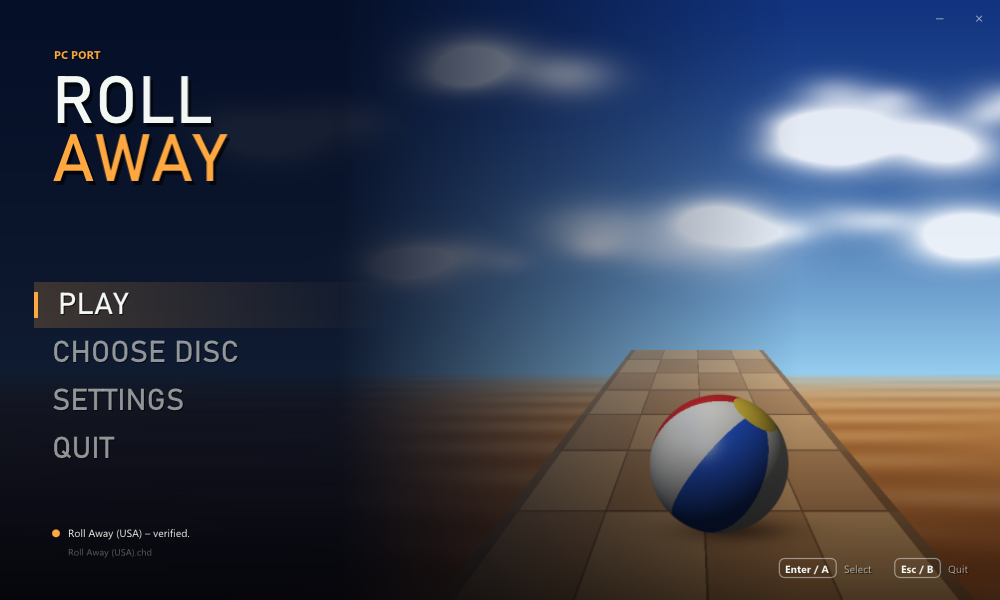
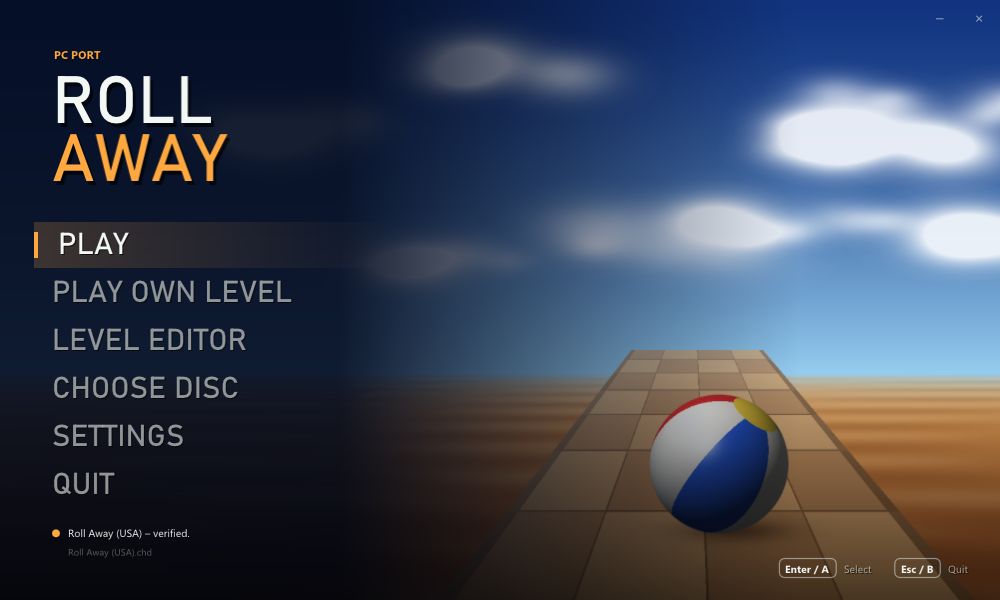
README: the level editor, with pictures
What the editor does, how to make a level, its keys, and how levels are
played and shared; a picture of the editor and of the same level in the
game, and the launcher's new menu.

Changed region(s): [[0.031, 0.36, 0.31, 0.84]]

diff --git a/README.md b/README.md
@@ -43,7 +43,7 @@ All releases are on the [Releases page](https://github.com/Bitsandbreakpoints/ro
    and movies: it holds no XA sectors). The launcher checks that the image
    is *Roll Away (USA)*, *Kula World (Europe)* or *KulaQuest (Japan)*, and
    which of them.
-4. Click **PLAY**.
+4. Click **PLAY**, or **LEVEL EDITOR** to make levels of your own.
 
 ![The launcher](images/launcher.png)
 
@@ -156,36 +156,91 @@ respective owners.*
 - **Disc images**: `.bin`/`.cue`, `.chd` (compressed) and `.iso`.
 - **Memory card in a file**: `roll_away_card1.mcd` next to the program, in
   the raw format emulators use. No BIOS needed.
+- **Your own levels**: a 3D [level editor](#level-editor), and the game
+  plays the levels you make (PLAY OWN LEVEL in the launcher).
 
 ## Level editor
 
-Make your own levels: `roll_away_editor.exe` (**LEVEL EDITOR** in the
-launcher) is a 3D level editor.
+**Make your own levels, and play them in the game.** The port comes with a
+3D level editor, `roll_away_editor.exe`: start it from the launcher
+(**LEVEL EDITOR**) or on its own. It reads your disc too, so the blocks
+look as they do in the game.
+
+![The level editor: a level of three floors in the Hiro world, the exit selected](images/level-editor.png)
+
+<p align="center"><em>The level editor: the tools and the palette of blocks and things on the left, the level and the selection on the right. The exit is selected; it leads to the next level of the series, readme_2.rlv.</em></p>
+
+![The same level played in the game](images/level-editor-play.png)
+
+<p align="center"><em>The same level in the game (F5 in the editor).</em></p>
+
+### What it does
 
 - **Blocks snap together**: click the side of a block and the new block
-  sits right there; drag to build a row, a floor or a wall.
+  sits right there. Drag to build a row, a floor or a wall in one go. For
+  blocks in the air, the build plane (G) gives you a floor to start from.
 - **Everything the game has**: normal, fire, ice, invisible and acid
-  blocks, moving, crumbling and flashing blocks, lasers, and on the blocks
-  the start, keys, the exit, coins, gems, fruit, power-ups, spikes,
-  patches, bounce pads, arrows, transporters, buttons and enemies.
-- **The game's rules** are checked while you build: one start, things
-  only on open sides, the exit opens when all keys are taken.
+  blocks, moving, crumbling and flashing blocks and lasers; and on the
+  blocks the start, keys, the exit and the hidden exit, coins, gems, fruit,
+  power-ups, spikes and patches, bounce pads, arrows, transporters, buttons
+  and enemies. Things that face a way show an arrow; transporters, buttons
+  and lasers are linked by clicking their target, and the links are drawn.
+- **The game's rules, checked as you build**: one start; things only on
+  the open sides of normal, fire, ice, invisible and acid blocks (a new
+  block takes away what was on a side it covers); the exit opens when all
+  keys are taken; no more special blocks and things to pick up than the
+  game can hold. **CHECK** on the right says what is missing or odd.
 - **Normal or bonus level**: a normal level keeps its world's look (with
-  no keys its exit is open at once); a bonus level gets the game's bonus
+  no keys, its exit is open at once); a bonus level gets the game's bonus
   look and the BONUS letters.
-- **The world's own look**: the editor reads the block textures from your
-  disc, and the level is played in the world you choose (its textures, sky
-  and music).
-- **A series of levels**: on an exit you choose the level that comes next
-  (the hidden exit can lead elsewhere), also in another world.
-- **Play at once**: **Play** (F5) starts the game straight into the level.
-  Saved levels (`.rlv`) are played with **PLAY OWN LEVEL** in the launcher
-  or by dropping them on its window.
-- **Learn from the masters**: File > Open a level of the game opens any of
-  the game's levels from your disc.
+- **Any world**: choose the world (Hiro, Hills, Inca, Arctic, Cowboy,
+  Field, Atlantis, Haze, Mars, Hell) and the level is played with its
+  textures, sky and music. The time is yours to set.
+- **A series of levels**: select an exit and choose the level that comes
+  next (**Next level**). The hidden exit can lead somewhere else, and the
+  next level can be in another world: finish one and the game moves on to
+  the next, as with its own levels.
+- **Play at once**: **Play** (F5) starts the game straight into the level,
+  past the intro and the menus. Esc in the game brings you back.
+- **Learn from the masters**: **File > Open a level of the game** opens any
+  of the game's own levels from your disc, to look at or to build on.
+- **Undo and redo** (Ctrl+Z, Ctrl+Y).
+
+### Making a level
+
+1. Start the editor. A new level is one block with the start on it.
+2. **Build** (1): click the sides of blocks to add blocks; pick the kind
+   on the left (fire, ice, moving, laser ...).
+3. **Things** (4): pick a thing on the left and click the side of a block
+   to put it there: keys, the exit, coins, the fruit, enemies ...
+4. **Select** (5): click a block or a thing to change it on the right: the
+   way it faces, its colour or kind, what a transporter leads to, where a
+   moving block goes, the next level of an exit.
+5. Set the name, the world, the type and the time under **LEVEL**, save
+   (Ctrl+S) and press **F5** to play.
+
+| Editor | Keys and mouse |
+|---|---|
+| Turn around the level | Right mouse button |
+| Move | Middle mouse button, Shift + right button, or W A S D / Q E |
+| Closer / farther | Mouse wheel |
+| Tools: Build, Erase, Paint, Things, Select | 1, 2, 3, 4, 5 |
+| Turn the selected thing / take it away | R / Delete |
+| Build plane on/off, its height | G, Page Up / Page Down |
+| Look at the selection | F |
+| Undo / redo / save / play | Ctrl+Z / Ctrl+Y / Ctrl+S / F5 |
+
+### Playing and sharing levels
+
+Levels are saved as small `.rlv` files. Play one with **PLAY OWN LEVEL**
+in the launcher, or drop it on the launcher's window. A series of levels
+is a folder of `.rlv` files: the exits refer to the next ones by name, so
+the folder can be moved or shared as it is. A `.rlv` holds only the level
+you made, nothing from the game: whoever plays it needs their own disc.
 
 The game itself is not changed: when you play your own level, the port
-serves it in place of the game's levels as they are read from the disc.
+serves it in place of the game's levels as they are read from the disc,
+and points the game to the level's world.
 
 ## Controls
 
@@ -215,7 +270,8 @@ Everything stays in the program's folder:
 - `settings.ini`: the settings.
 - `roll_away_card1.mcd`: the memory card in slot 1.
 - `roll_away.log`: a log for troubleshooting.
-- `level_editor.ini`: the level editor's disc, if not the launcher's.
+- `roll_away_editor.exe`: the level editor; `level_editor.ini`: its disc,
+  if not the launcher's. Your levels (`.rlv`) are wherever you save them.
 
 ## FAQ
 
@@ -256,7 +312,8 @@ interrupts, and Sony's libraries for graphics, the CD-ROM with its XA music
 and movie streaming, the movie decoder, controllers, the memory card and
 the BIOS written anew), the PlayStation's graphics, geometry, sound and
 movie chips in software, the launcher and the window, picture and sound
-output, plus the build scripts, the tests and the open-source libraries it
+output, the level editor and the support for your own levels, plus the
+build scripts, the tests and the open-source libraries it
 uses.
 
 The game's code is not in the repository. It is recompiled when you build,
